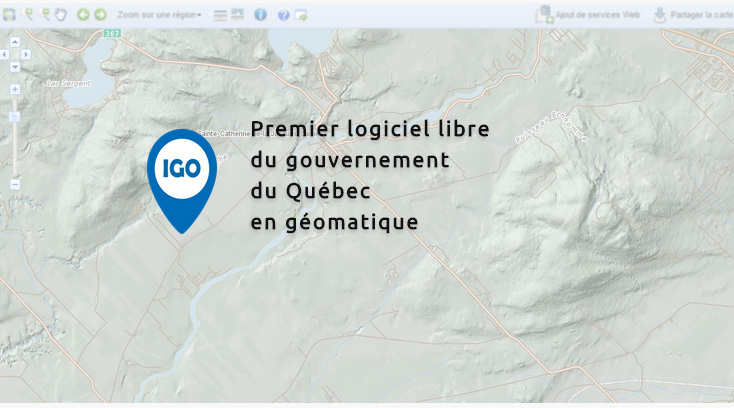
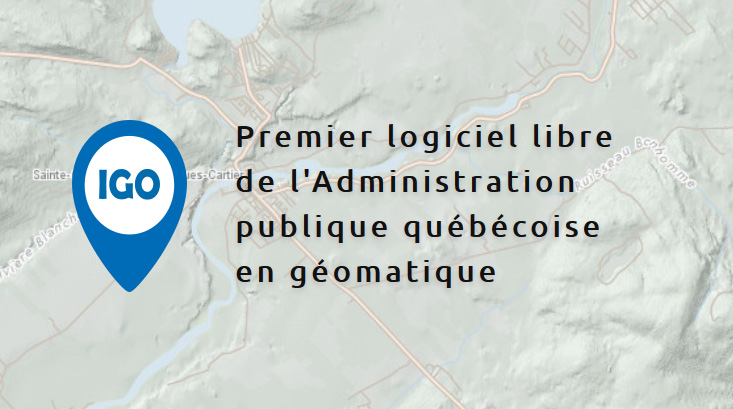
update correction

diff --git a/_site/index.html b/_site/index.html
@@ -340,10 +340,12 @@
 		<img class="banniere-logo" src="/assets/img/logo_bleu_172.png"  alt="Logo IGO" />
 		
 		<p class="banniere-titre">Premier logiciel libre<br>
-		 du gouvernement<br>
-		 du Québec<br>
+		 de l'Administration<br>
+		 publique québécoise<br>
 		 en géomatique</p>
-	<!--	<div class="btns-ban">
+
+	<!-- Pour ajouter des boutons sur la bannière:	
+		<div class="btns-ban">
 			 <a class="btn-banniere btn btn-primary" href="https://github.com/infra-geo-ouverte/igo/blob/master/LICENCE.txt">
 				<i class="icon-banniere fa fa-copyright"></i>
 				Licence

diff --git a/_includes/head.html b/_includes/head.html
@@ -73,6 +73,6 @@
 	<link rel="canonical" href="{{ page.url | replace:'index.html','' | prepend: site.baseurl | prepend: site.url }}" >
 	  
 	<!-- pour le fil RSS à ajouter avec un blog http://joelglovier.com/writing/rss-for-jekyll/ -->
-	<link rel="alternate" type="application/rss+xml" title="RSS" href="{{ '/feed.xml' | prepend: site.baseurl | prepend: site.url }}" >
+	<link rel="alternate" type="application/rss+xml" title="{{ site.title }}" href="{{ '/feed.xml' | prepend: site.baseurl | prepend: site.url }}" >
 
   </head>

diff --git a/_includes/banniere.html b/_includes/banniere.html
@@ -4,10 +4,11 @@
 		
 		<p class="banniere-titre">Premier logiciel libre<br>
 		 de l'Administration<br>
-		 du Québec<br>
-		 publique québécoise</p>Premier logiciel libre
+		 publique québécoise<br>
+		 en géomatique</p>
 
-	<!--	<div class="btns-ban">
+	<!-- Pour ajouter des boutons sur la bannière:	
+		<div class="btns-ban">
 			 <a class="btn-banniere btn btn-primary" href="https://github.com/infra-geo-ouverte/igo/blob/master/LICENCE.txt">
 				<i class="icon-banniere fa fa-copyright"></i>
 				Licence

diff --git a/_includes/header.html b/_includes/header.html
@@ -8,7 +8,7 @@
 		<!-- Titre du site/ mettre le logo -->
 		<div class="navbar-header">
 			<a href="/">
-				<img itemprop="image" class="logo-med" src="{{ '/assets/img/Igo_logoavec.png'}}"  alt="Logo IGO" />
+				<img itemprop="image" class="logo-med" src="{{ '/assets/img/Igo_logoavec.png' | prepend: site.baseurl }}"  alt="Logo IGO" />
 			</a>
 						
 			<!--[if gt IE 8]><!-->

diff --git a/_includes/footer.html b/_includes/footer.html
@@ -4,7 +4,7 @@
 		<!-- LOGO -->
 		<div class="col-xs-12 col-sm-4 text-center">
 			<a href="/">
-				<img class="logo-med" src="{{ '/assets/img/logo_bleu_112.png'}}"  alt="Logo IGO" />
+				<img class="logo-med" src="{{ '/assets/img/logo_bleu_112.png'| prepend: site.baseurl }}"  alt="Logo IGO" />
 			</a>
 
 		</div>
